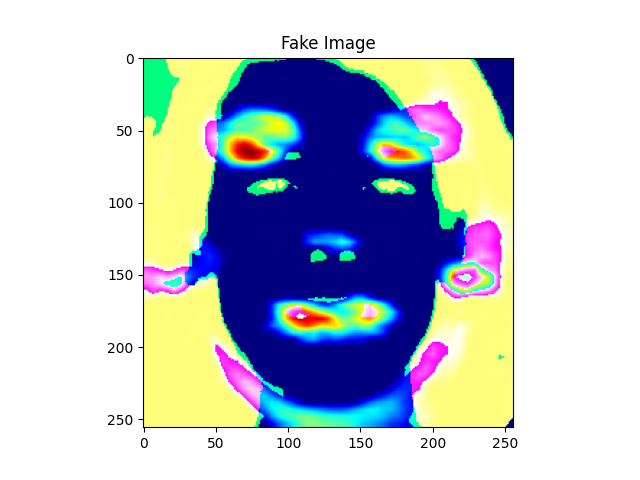
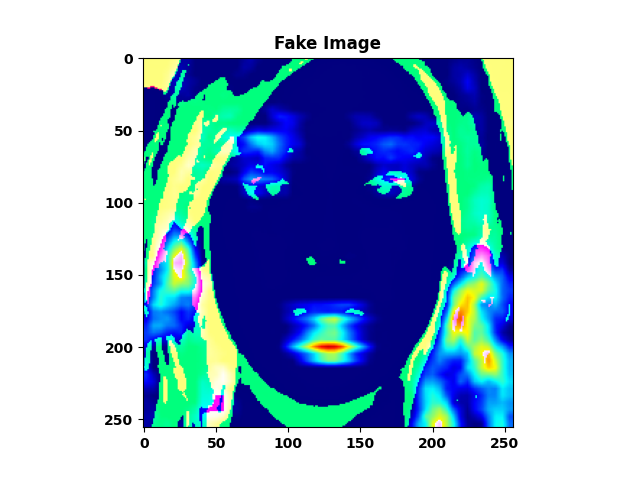
GradCam figures from different models

Changed region(s): [[0.1562, 0.0625, 0.8125, 0.9375], [0.4062, 0.5938, 0.625, 0.7812], [0.4688, 0.4688, 0.5625, 0.5625]]

diff --git a/project/solution/grad_cam_analysis.py b/project/solution/grad_cam_analysis.py
@@ -67,7 +67,7 @@ def get_grad_cam_visualization(test_dataset: torch.utils.data.Dataset,
     # Construct the CAM object
     cam = GradCAM(model=model, target_layers=target_layers)
     # You can also pass aug_smooth=True and eigen_smooth=True, to apply smoothing.
-    grayscale_cam = cam(input_tensor=image, targets=targets)
+    grayscale_cam = cam(input_tensor=image, targets=targets, aug_smooth=True, eigen_smooth=True)
     grayscale_cam = grayscale_cam[0, :]
 
     img_array = image[0].numpy()
